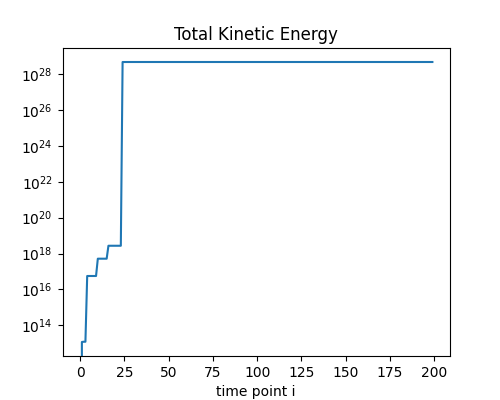
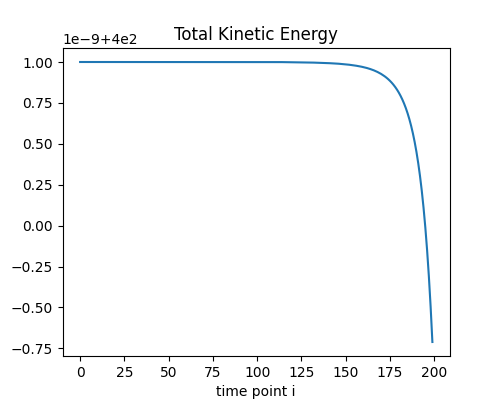
2 Particles
2 Particles not showing expected behavior

diff --git a/main.py b/main.py
@@ -8,14 +8,17 @@ kB = 1.380649e-23  # [J/K] Boltzmann constant
 
 epsilon = T * kB  # [J]   Lennard-Jones Potential well depth of Argon
 sigma = 3.405e-10  # [m]   Lennard-Jones Potential well depth of Argon
-radius_max = 3  # [-]   *sigma Lennard-Jones Potential cutoff max radius of interaction
+# radius_max = 10000  # [-]   *sigma Lennard-Jones Potential cutoff max radius of interaction
 Ag_m = 6.6335209e-26  # [kg]  Atomic mass of Argon
 
+
 # Simulation parameters:
-N_particles = 4 ** 3  # [-]   Amount of particles
+N_particles = 2  # [-]   Amount of particles
 h = 0.01  # [-]   Time step
-N_time = 200  # [-]   Number of time steps
-box_L = 20  # [-]   *sigma Length of box
+N_time = 240  # [-]   Number of time steps
+box_L = 200  # [-]   *sigma Length of box
+
+potential_energies = np.zeros(N_time)
 
 # grid (0), random distribution (1), two particles (2)
 if N_particles == 2:
@@ -29,6 +32,10 @@ def lj_force(r):
     this returns the unitless Lennard Jones Force. """
     force = -4 * (-12 * (r ** -14) + 6 * (r ** -8))
     return force
+
+
+def potential_energy(r):
+    return -4 * (r ** -12 - r ** -6)
 
 
 def direction(r_abs, x1, x2, y1, y2, z1, z2):
@@ -119,10 +126,10 @@ def initialize_particles():
         return particles
 
     if test_state == 2:
-        particles[0, 0, 0], particles[0, 0, 1] = [box_L / 2 + 0.5, box_L / 2]
-        particles[0, 1, 0], particles[0, 1, 1] = [box_L / 2 - 0.5, box_L / 2]
-        particles[0, 0, 3], particles[0, 0, 4] = [0, 0]
-        particles[0, 1, 3], particles[0, 1, 4] = [0, 0]
+        particles[0, 0, 0], particles[0, 0, 1] = [box_L / 2 + box_L / 4, box_L / 2] #+ box_L / 600]
+        particles[0, 1, 0], particles[0, 1, 1] = [box_L / 2 - box_L / 4, box_L / 2] #- box_L / 600]
+        particles[0, 0, 3], particles[0, 0, 4] = [-box_L/10, 0]
+        particles[0, 1, 3], particles[0, 1, 4] = [box_L/10, 0]
         return particles
 
 
@@ -133,7 +140,8 @@ def interaction_force(i, j, particles):
     f_x, f_y, f_z = [0, 0, 0]
     for k in range(N_particles):
         radius = distance(x_old, particles[i - 1][k][0], y_old, particles[i - 1][k][1], z_old, particles[i - 1][k][2])
-        if (k != j) and (radius <= radius_max) and (radius != 0):
+        if (k != j) and (radius != 0):
+            potential_energies[i] += potential_energy(radius)/2
             force = lj_force(radius)
             r_unit = direction(radius, x_old, particles[i - 1][k][0], y_old, particles[i - 1][k][1], z_old,
                                particles[i - 1][k][2])
@@ -162,7 +170,7 @@ def update_velocity(i, j, particles, f_x_old, f_y_old, f_z_old):
     vx_new, vy_new, vz_new = vx_old, vy_old, vz_old
     for k in range(N_particles):
         radius = distance(x_new, particles[i][k][0], y_new, particles[i][k][1], z_new, particles[i][k][2])
-        if (k != j) and (radius <= radius_max) and (radius != 0):
+        if (k != j) and (radius != 0):
             f_new = lj_force(radius)
             r_unit = direction(radius, x_new, particles[i][k][0], y_new, particles[i][k][1], z_new, particles[i][k][2])
             # vx_new = vx_old + (h / (2 * Ag_m)) * (f_x_old + f_new * r_unit[0])
@@ -195,7 +203,7 @@ def kinetic_energy(velocities):
     """ Given the x,y,z velocities, this returns the dimensioneless kinetic energy. """
     v_x, v_y, v_z = velocities
     v_abs = np.sqrt(v_x ** 2 + v_y ** 2 + v_z ** 2)
-    return 0.5 * Ag_m * v_abs ** 2 / epsilon
+    return 0.5 * v_abs ** 2
 
 
 def plot_kinetic_energy(particles):
@@ -211,10 +219,19 @@ def plot_kinetic_energy(particles):
     plt.figure(figsize=(5, 4))
     plt.title("Total Kinetic Energy")
     plt.plot(np.arange(0, N_time), total_kinetic_energy_list)
-    # plt.xscale('log')
-    plt.yscale('log')
     plt.xlabel("time point i")
     plt.savefig("kinetic_energies.png")
+    plt.close()
+    return total_kinetic_energy_list
+
+
+def plot_potential_energy():
+    plt.figure(figsize=(5, 4))
+    plt.title("Total Potential Energy")
+    plt.plot(np.arange(0, N_time), potential_energies)
+    plt.xlabel("time")
+    plt.ylabel("potential energy")
+    plt.savefig("potential_energies.png")
     plt.close()
     return None
 
@@ -228,12 +245,12 @@ def main():
     return particles
 
 
+particles_simulation = main()
 fig = plt.figure(figsize=(3, 3), dpi=100)
 ax = plt.axes(xlim=(0, box_L), ylim=(0, box_L), zlim=(0, box_L), projection='3d')
 ax.view_init(20, 30)
-scatter = ax.scatter([], [], [], s=5)
+scatter = ax.scatter([], [], [], s=5, marker='o')
 iteration = ax.text(box_L, 0, box_L, "i=0", color="red")
-particles_simulation = main()
 
 
 def update(i):
@@ -243,6 +260,7 @@ def update(i):
 
 
 anim = animation.FuncAnimation(fig, update, frames=N_time, interval=10)
-anim.save('MD_simulation.gif', fps=30)
+anim.save('MD_simulation.gif', fps=60)
 plt.show()
 plot_kinetic_energy(particles_simulation)
+plot_potential_energy()
